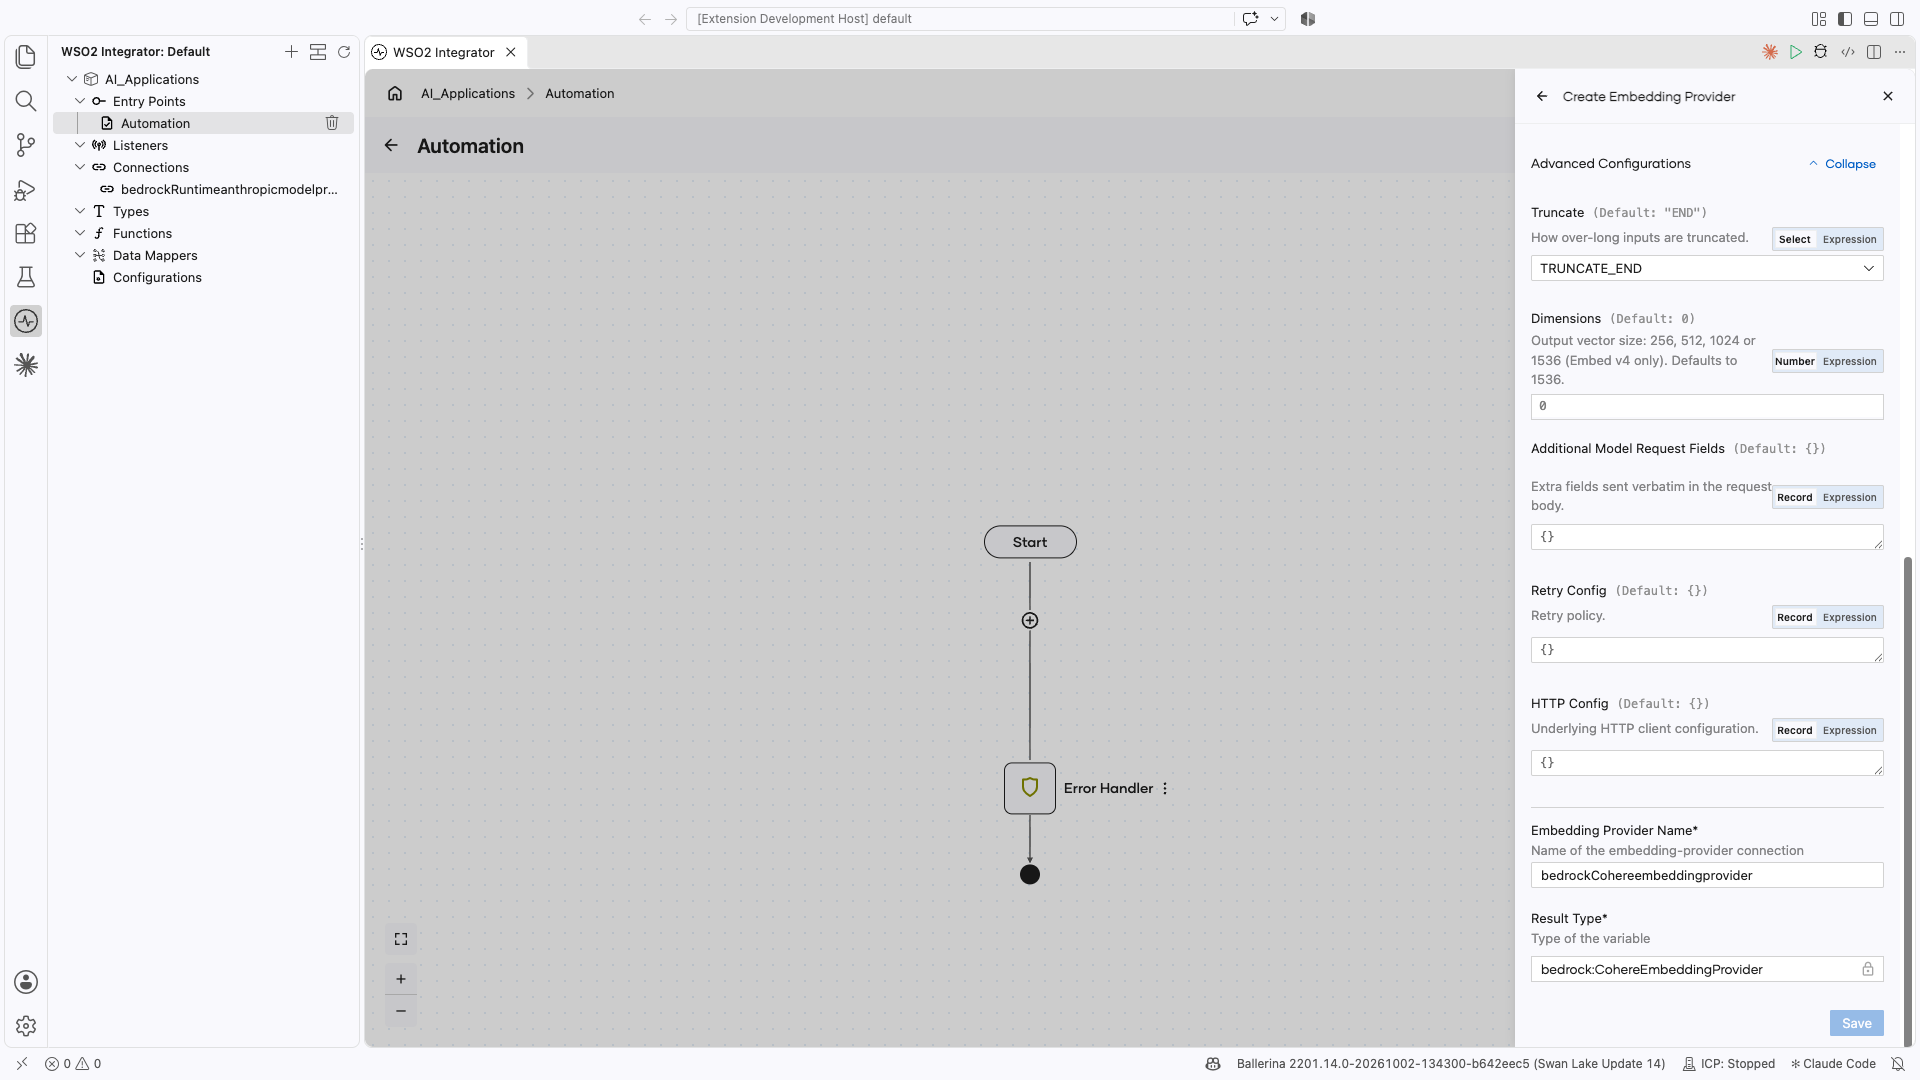
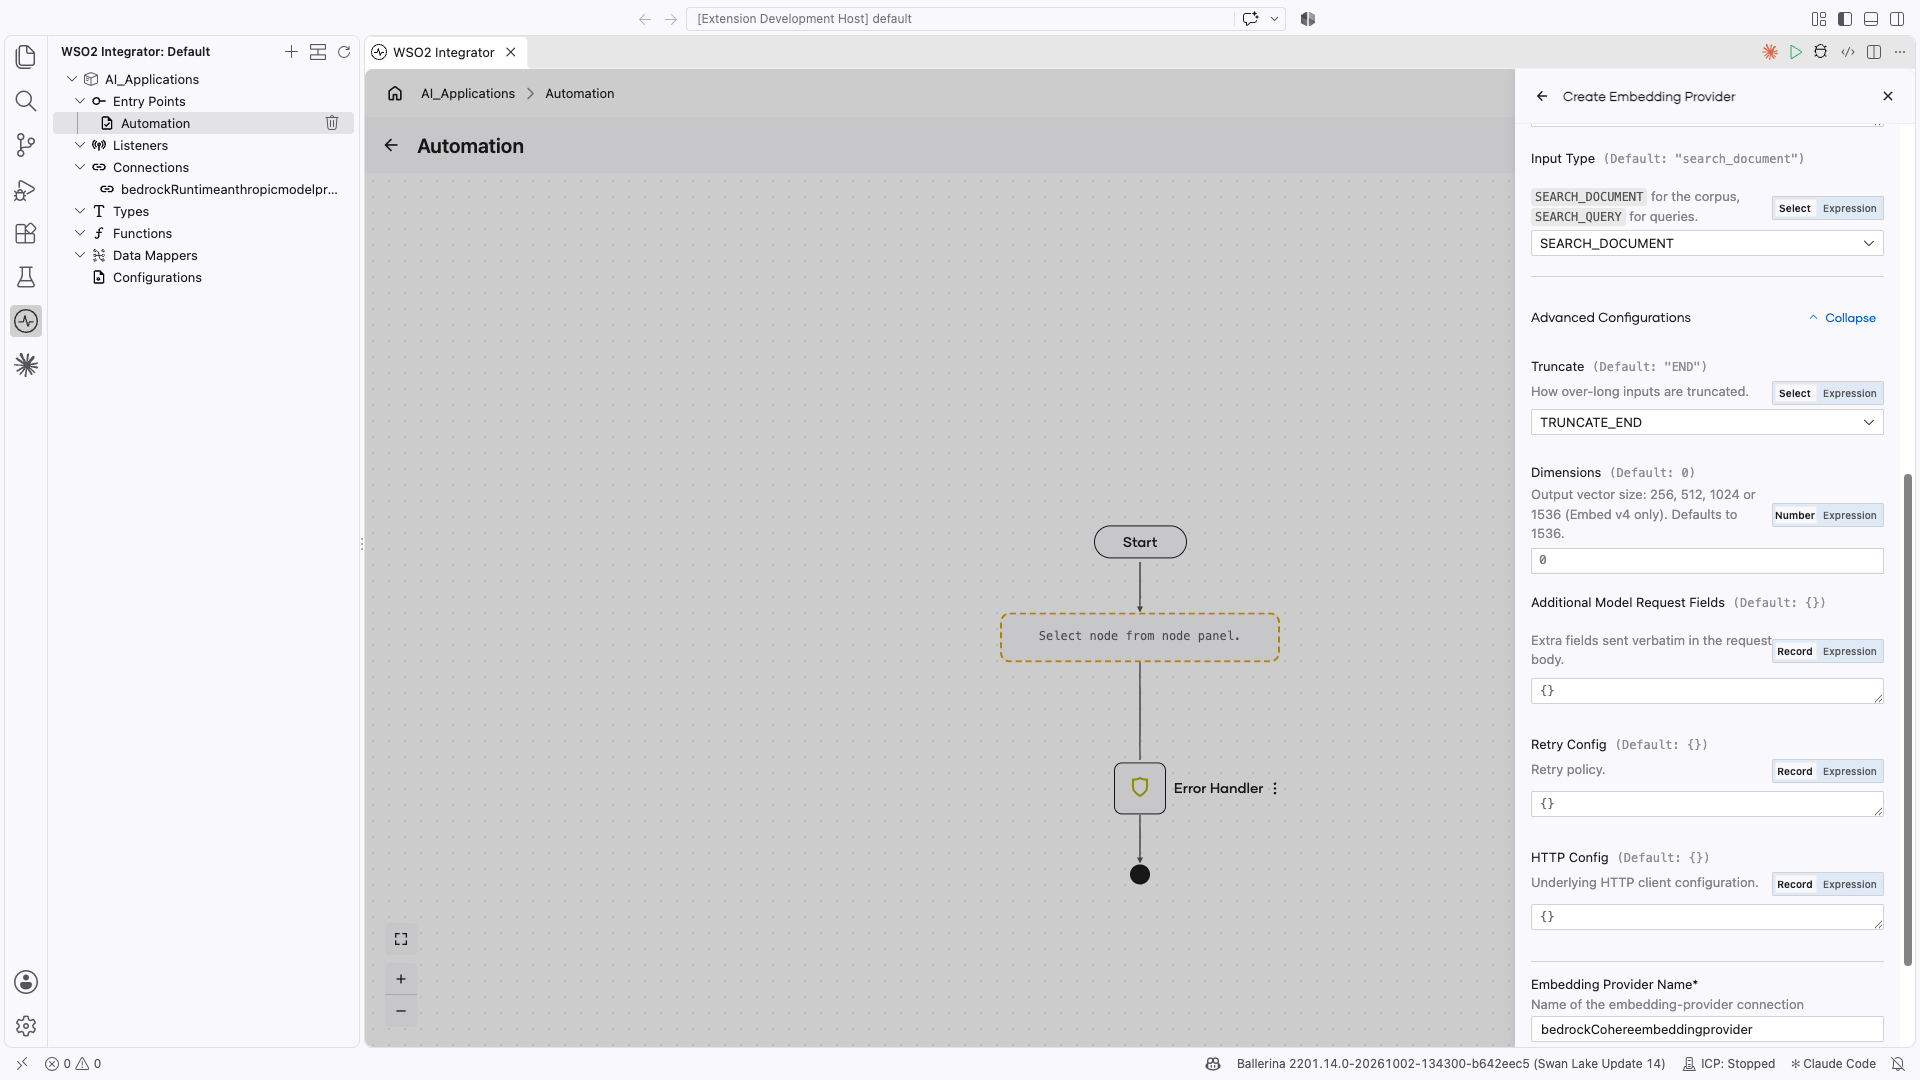
docs(genai): show Cohere Input Type in the embedding provider create form

diff --git a/en/docs/develop-and-test/integration-artifacts/ai-integrations/ai-building-blocks/embedding-providers.md b/en/docs/develop-and-test/integration-artifacts/ai-integrations/ai-building-blocks/embedding-providers.md
@@ -85,14 +85,15 @@ Official website: [aws.amazon.com/bedrock](https://aws.amazon.com/bedrock/).
     }}
 />
 
-Both AWS Bedrock embedding providers have the same create form fields.
+Both AWS Bedrock embedding providers have the same create form fields, except **Input Type**, which only the Cohere provider has.
 
 | Field | Required | Default | Available values |
 |---|---|---|---|
-| **Model** | Yes | — | **Titan**: `amazon.titan-embed-text-v2:0` (1024 dims, configurable down), `amazon.titan-embed-text-v1` (1536 dims). **Cohere**: `cohere.embed-english-v3` (1024 dims), `cohere.embed-multilingual-v3` (1024 dims), `cohere.embed-v4:0` (1536 dims, configurable down). Any other model ID from the same vendor is also accepted. ARNs are not supported. |
+| **Model** | Yes | — | **Titan**: `amazon.titan-embed-text-v2:0` (1024 dims, configurable down), `amazon.titan-embed-text-v1` (1536 dims). **Cohere**: `cohere.embed-english-v3` (1024 dims), `cohere.embed-multilingual-v3` (1024 dims), `cohere.embed-v4:0` (1536 dims, configurable down). Any other ID that starts with `amazon.titan-embed` (Titan) or `cohere.embed` (Cohere) is also accepted, including cross-region inference profile IDs such as `us.cohere.embed-v4:0`. ARNs are not supported. |
 | **AWS Credentials** | Yes | — | `DEFAULT_CREDENTIALS`, or one of the records in [AWS credential options](model-providers.md#aws-credential-options). |
 | **Region** | Yes | — | The AWS region to call, for example `us-east-1`. There is no default. |
 | **Endpoint Configuration** | No | `()` (derived from Region) | `fips`, `dualstack`, `customEndpoint`. Endpoint variant, or a full URL override such as a VPC endpoint. |
+| **Input Type** (Cohere only) | No | `SEARCH_DOCUMENT` | `SEARCH_DOCUMENT`, `SEARCH_QUERY`, `CLASSIFICATION`, `CLUSTERING`. What the embeddings are for. Cohere requires this on every request, so the provider always sends it. |
 
 :::note
 `cohere.embed-v4:0` is served in-region only in `us-east-1`, `eu-west-1`, and `ap-northeast-1`. In other regions, use a cross-region inference profile ID instead: `us.cohere.embed-v4:0`, `eu.cohere.embed-v4:0`, or `global.cohere.embed-v4:0`. See the [Embed v4 model card](https://docs.aws.amazon.com/bedrock/latest/userguide/model-card-cohere-embed-v4.html).
@@ -101,7 +102,7 @@ Both AWS Bedrock embedding providers have the same create form fields.
 ### Advanced configurations
 
 <ThemedImage
-    alt="Bedrock Cohere Create Embedding Provider form with Advanced Configurations expanded, scrolled to show Truncate, Dimensions, Additional Model Request Fields, Retry Config, and HTTP Config, followed by Embedding Provider Name bedrockCohereembeddingprovider and Result Type bedrock:CohereEmbeddingProvider."
+    alt="Bedrock Cohere Create Embedding Provider form scrolled to Input Type (select/expression toggle, value SEARCH_DOCUMENT, hint 'SEARCH_DOCUMENT for the corpus, SEARCH_QUERY for queries'), then Advanced Configurations expanded showing Truncate, Dimensions, Additional Model Request Fields, Retry Config, and HTTP Config, followed by Embedding Provider Name bedrockCohereembeddingprovider."
     sources={{
         light: useBaseUrl('/img/genai/develop/components/embedding-providers/12-aws-bedrock-cohere-advanced-v5.1.0.png'),
         dark: useBaseUrl('/img/genai/develop/components/embedding-providers/12-aws-bedrock-cohere-advanced-v5.1.0.png'),
@@ -110,7 +111,6 @@ Both AWS Bedrock embedding providers have the same create form fields.
 
 | Field | Provider | Default | Available values | What it controls |
 |---|---|---|---|---|
-| **Input Type** | Cohere | `SEARCH_DOCUMENT` | `SEARCH_DOCUMENT`, `SEARCH_QUERY`, `CLASSIFICATION`, `CLUSTERING` | What the embeddings are for. Cohere requires this on every request. |
 | **Truncate** | Cohere | `()` (model default) | `TRUNCATE_NONE`, `TRUNCATE_START`, `TRUNCATE_END` | How over-long input is handled. `TRUNCATE_NONE` returns an error; the other two drop tokens from the start or the end. |
 | **Dimensions** | Both | `()` (model default) | Titan V2: `256`, `512`, `1024`. Cohere Embed v4: `256`, `512`, `1024`, `1536`. | Output vector size. Must match the dimension of your vector store index. Setting it on Titan V1 or Cohere Embed v3 fails when the provider is created. |
 | **Normalize** | Titan | `()` (`true` on Titan V2) | `true`, `false` | Whether Titan returns a unit-length vector. |
